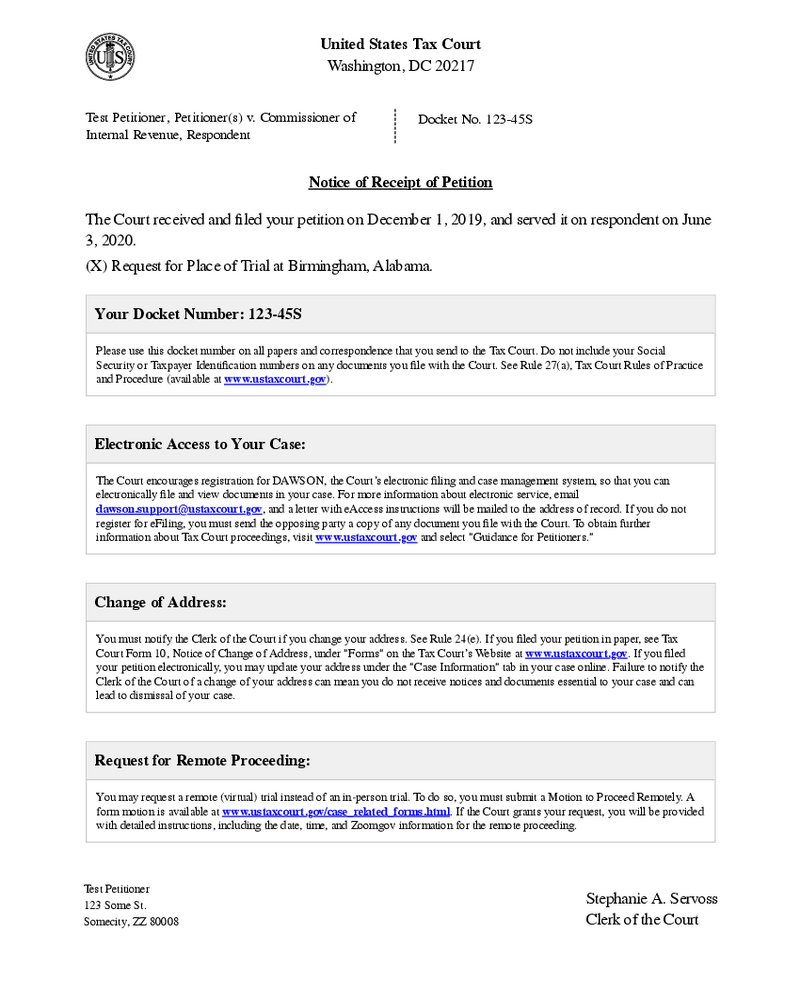
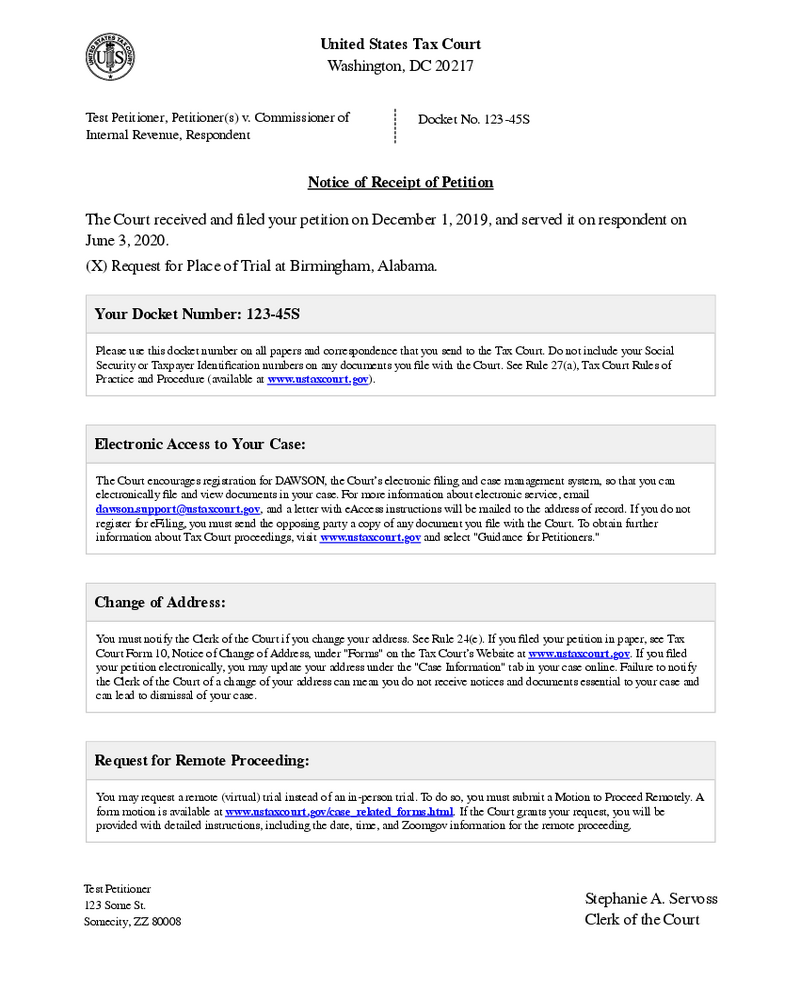
9819: generate and update expected document generation PDFs

diff --git a/shared/src/business/utilities/pdfGenerator/documentTemplates/NoticeOfReceiptOfPetition.jsx b/shared/src/business/utilities/pdfGenerator/documentTemplates/NoticeOfReceiptOfPetition.jsx
@@ -6,27 +6,24 @@ const { AddressLabel } = require('../components/AddressLabel.jsx');
 const { PrimaryHeader } = require('../components/PrimaryHeader.jsx');
 
 const StandardNOTRText = () => (
-  <>
-    <div className="info-box-content">
-      The Court encourages registration for DAWSON, the Court’s electronic
-      filing and case management system, so that you can electronically file and
-      view documents in your case. For more information about electronic
-      service, email{' '}
-      <strong>
-        <a href="mailto:dawson.support@ustaxcourt.gov">
-          dawson.support@ustaxcourt.gov
-        </a>
-      </strong>
-      , and a letter with eAccess instructions will be mailed to the address of
-      record. If you do not register for eFiling, you must send the opposing
-      party a copy of any document you file with the Court. To obtain further
-      information about Tax Court proceedings, visit{' '}
-      <strong>
-        <a href="https://www.ustaxcourt.gov">www.ustaxcourt.gov</a>
-      </strong>{' '}
-      and select &quot;Guidance for Petitioners.&quot;
-    </div>
-  </>
+  <div className="info-box-content">
+    The Court encourages registration for DAWSON, the Court’s electronic filing
+    and case management system, so that you can electronically file and view
+    documents in your case. For more information about electronic service, email{' '}
+    <strong>
+      <a href="mailto:dawson.support@ustaxcourt.gov">
+        dawson.support@ustaxcourt.gov
+      </a>
+    </strong>
+    , and a letter with eAccess instructions will be mailed to the address of
+    record. If you do not register for eFiling, you must send the opposing party
+    a copy of any document you file with the Court. To obtain further
+    information about Tax Court proceedings, visit{' '}
+    <strong>
+      <a href="https://www.ustaxcourt.gov">www.ustaxcourt.gov</a>
+    </strong>{' '}
+    and select &quot;Guidance for Petitioners.&quot;
+  </div>
 );
 
 const ElectronicServiceNOTRText = ({ accessCode, contact }) => (
@@ -54,7 +51,7 @@ const ElectronicServiceNOTRText = ({ accessCode, contact }) => (
 );
 
 export const NoticeOfReceiptOfPetition = ({
-  accessCode = '123456',
+  accessCode,
   caseCaptionExtension,
   caseTitle,
   contact,

diff --git a/shared/src/business/utilities/documentGenerators/noticeOfReceiptOfPetition.test.js b/shared/src/business/utilities/documentGenerators/noticeOfReceiptOfPetition.test.js
@@ -32,4 +32,35 @@ describe('noticeOfReceiptOfPetition', () => {
     testDescription:
       'generates a Notice of Receipt of Petition document with a country included',
   });
+
+  generateAndVerifyPdfDiff({
+    fileName: 'Notice_Receipt_Petition_E_Access.pdf',
+    pageNumber: 1,
+    pdfGenerateFunction: () => {
+      return noticeOfReceiptOfPetition({
+        applicationContext,
+        data: {
+          accessCode: '123456',
+          caseCaptionExtension: 'Petitioner(s)',
+          caseTitle: 'Test Petitioner',
+          contact: {
+            address1: '123 Some St.',
+            city: 'Somecity',
+            country: '',
+            hasConsentedToEService: true,
+            name: 'Test Petitioner',
+            paperPetitionEmail: 'testing@example.com',
+            postalCode: '80008',
+            state: 'ZZ',
+          },
+          docketNumberWithSuffix: '123-45S',
+          preferredTrialCity: 'Birmingham, Alabama',
+          receivedAtFormatted: 'December 1, 2019',
+          servedDate: 'June 3, 2020',
+        },
+      });
+    },
+    testDescription:
+      'generates a Notice of Receipt of Petition document with dynamic Electronic Access section',
+  });
 });
